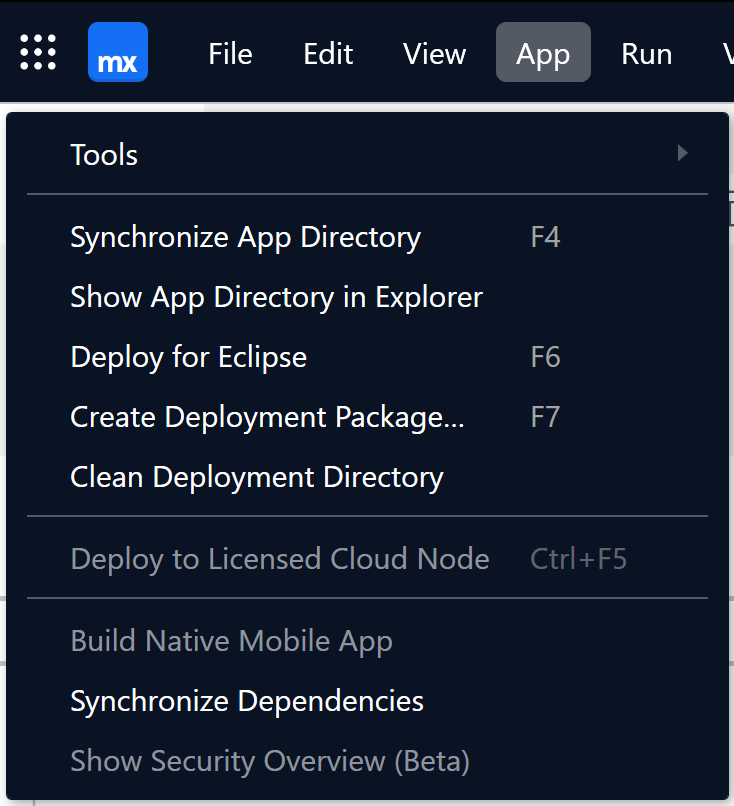
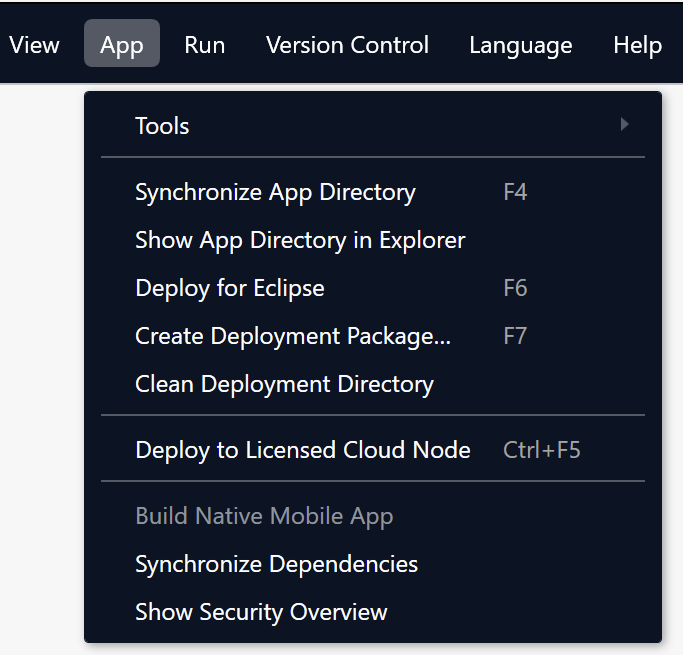
Update Security overview for Mx 11 and Mx10

diff --git a/content/en/docs/refguide10/modeling/menus/app-menu/_index.md b/content/en/docs/refguide10/modeling/menus/app-menu/_index.md
@@ -91,8 +91,7 @@ For more information on using this option, see [Deploy to the Cloud](/refguide10
 
 If you have an app with a [native profile](/refguide10/navigation/#native-phone), this option launches the [Mendix Native Mobile Builder](/releasenotes/mobile/mendix-native-mobile-builder/). This wizard will guide you through the required steps for configuring and publishing your app. 
 
-For the first step in your native mobile journey, see [Build a Mendix Native App Locally
-](/refguide10/mobile/distributing-mobile-apps/building-native-apps/native-build-locally/).
+For the first step in your native mobile journey, see [Build a Mendix Native App Locally](/refguide10/mobile/distributing-mobile-apps/building-native-apps/native-build-locally/).
 
 ## Synchronize Dependencies 
 
@@ -102,9 +101,9 @@ You can trigger manual synchronization by opening the **App** menu and selecting
 
 For more information, see the [Dependency Sychronization](/refguide10/managed-dependencies/#dependency-synchronization) section of *Managed Dependencies*.
 
-## Show Security Overview (Beta)
+## Show Security Overview
 
-The **Show Security Overview (Beta)** option opens the [Security Overview](/refguide10/security-overview/), where you can view a unified overview of your app's security. 
+The **Show Security Overview** option opens the [Security Overview](/refguide10/security-overview/), where you can view a unified overview of your app's security. 
 
 ## Read More
 

diff --git a/content/en/docs/refguide10/modeling/security/_index.md b/content/en/docs/refguide10/modeling/security/_index.md
@@ -83,10 +83,10 @@ Mendix applications that are deployed to SAP BTP can have SSO with SAP's IdP. Me
 
 If you want to invite your colleagues to build your app, you can manage the **Team** in [Apps](https://sprintr.home.mendix.com/). Only team members who are invited to your app can access it (as a project to collaborate on). You can assign app roles to them. These team member roles define what they can access and change in the app in the backend while developing the app and are different from end-user roles which define what users can access in a running app. For more information, see [Team](/developerportal/general/team/) in the documentation of **Apps**.
 
-## The Security Overview (Beta)
+## The Security Overview
 
-The [Security Overview (Beta)](/refguide10/security-overview/) provides you with an overview of your app's security. To access the overview, open the **App** menu, and then click **Show Security Overview (Beta)**. 
+The [Security Overview](/refguide10/security-overview/) provides you with an overview of your app's security. To access the overview, open the **App** menu, and then click **Show Security Overview**. 
 
 {{% alert color="info" %}}
-This feature is currently in beta. For more information, see [Beta and Experimental Releases](/releasenotes/beta-features/).
+The security overview became generally available in Studio Pro version 10.21.0. It was previously in beta starting from version 10.18.
 {{% /alert %}}

diff --git a/content/en/docs/refguide/modeling/security/_index.md b/content/en/docs/refguide/modeling/security/_index.md
@@ -86,7 +86,3 @@ If you want to invite your colleagues to build your app, you can manage the **Te
 ## The Security Overview
 
 The [Security Overview](/refguide/security-overview/) provides you with an overview of your app's security. To access the overview, open the **App** menu, and then click **Show Security Overview**. 
-
-{{% alert color="info" %}}
-The security overview became generally available in Studio Pro version 10.21.0. It was previously in beta starting from version 10.18.
-{{% /alert %}}

diff --git a/content/en/docs/refguide10/modeling/security/security-overview.md b/content/en/docs/refguide10/modeling/security/security-overview.md
@@ -6,7 +6,7 @@ beta: true
 ---
 
 {{% alert color="info" %}}
-This feature was introduced in Mendix 10.18 and is currently in beta. For more information, see [Beta and Experimental Releases](/releasenotes/beta-features/).
+The security overview became generally available in Studio Pro version 10.21.0. It was previously in beta starting from version 10.18.
 {{% /alert %}}
 
 ## Introduction

diff --git a/content/en/docs/refguide/modeling/security/security-overview.md b/content/en/docs/refguide/modeling/security/security-overview.md
@@ -4,10 +4,6 @@ url: /refguide/security-overview/
 weight: 20
 ---
 
-{{% alert color="info" %}}
-The security overview became generally available in Studio Pro version 10.21.0. It was previously in beta starting from version 10.18.
-{{% /alert %}}
-
 ## Introduction
 
 The **Security Overview** page provides you with an overview of your app's security. 
